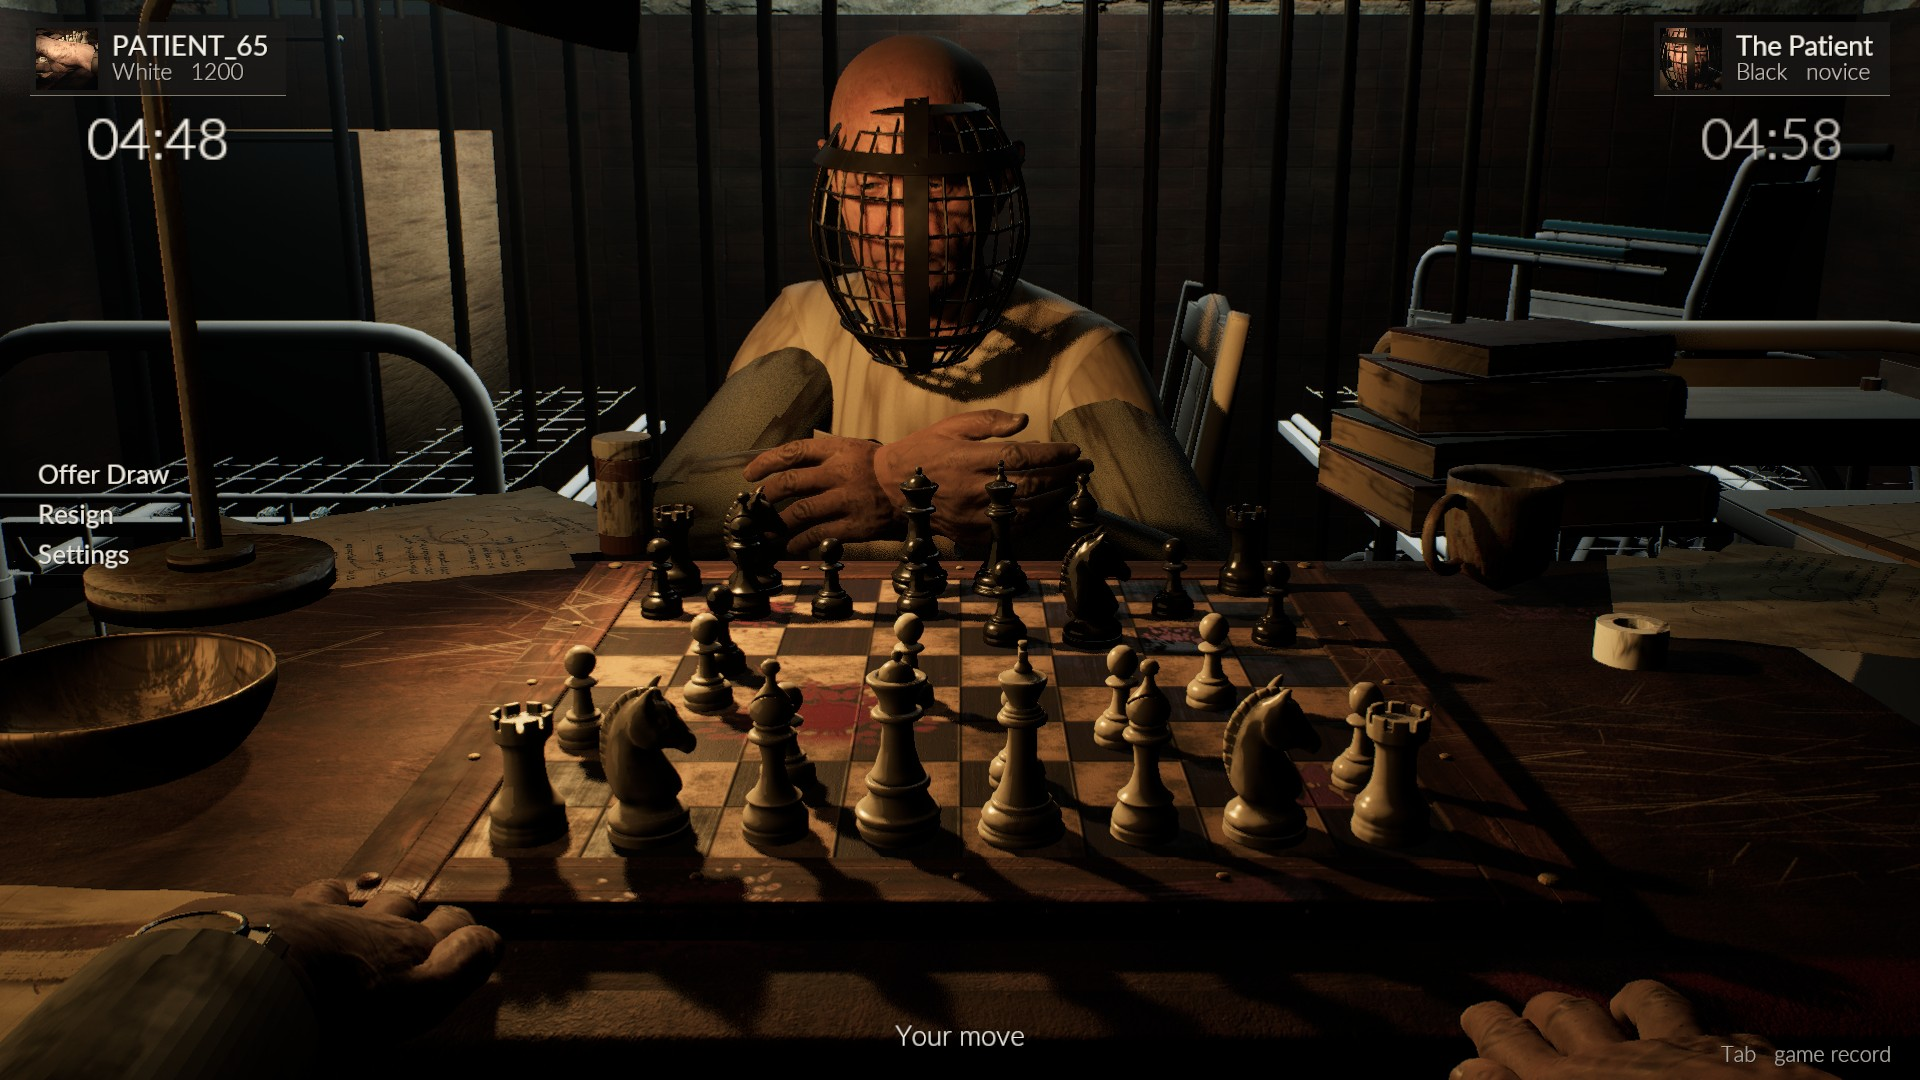
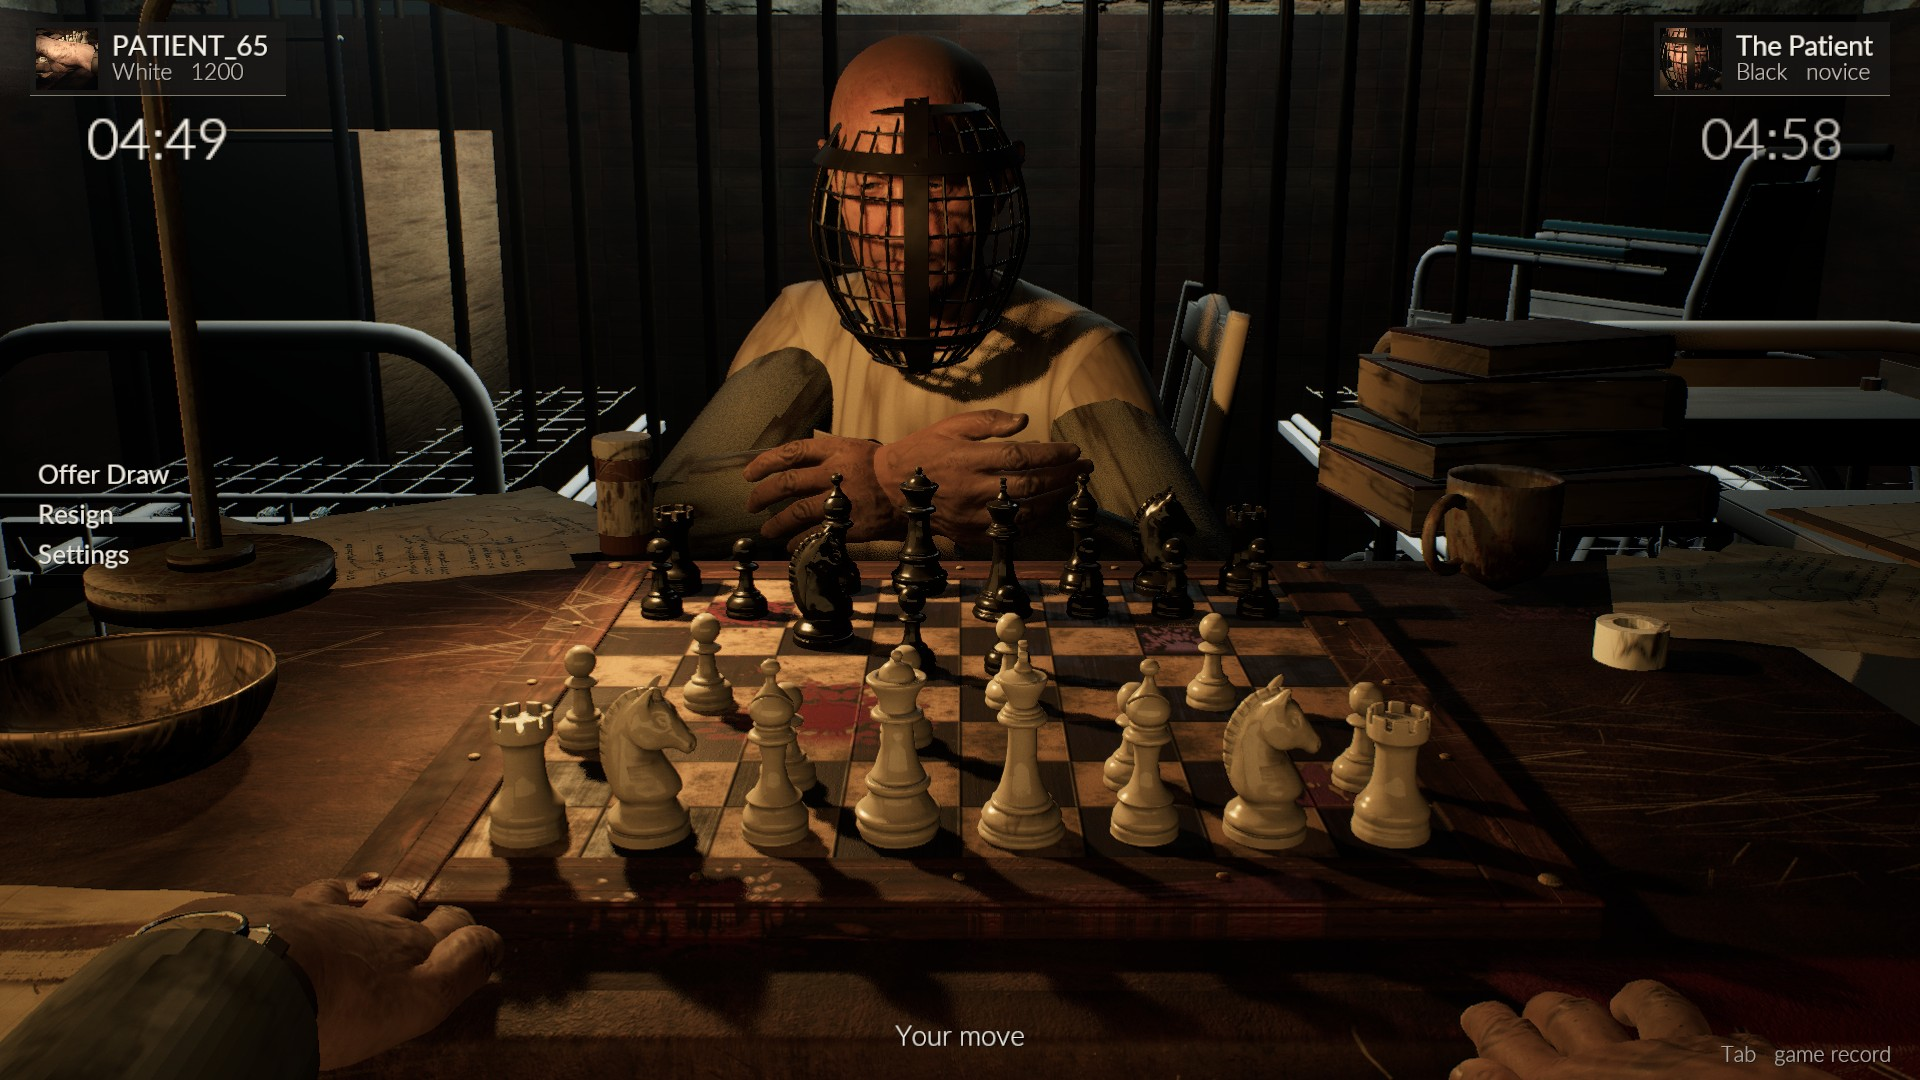
Lighting C2.3: shadowless Table_Bounce from the player's side keeps the white pieces light (white median 11.6 in C2.2 -> 74.8, C1 72.7; white/black ratio 17.8), EV 8.45, V1 met
Lead review: C2.2's lamp-only key backlit the white pieces (tan, close to the black set). Start-position check with
basecolor masks: ratio C1 30.9, C2.2 5.4, C2.3 17.8 (target >= 2.5). Main view mean 29.1, p95 99.7, r/g 1.473,
g/b 1.661; below luma 8 32.3% (ref 33.8); detail 11.15 (V2 not met). GPU 8.42 ms auto, 17.32 ms native 1440p
(C1 11.57 auto). Autotests on this build: cpu 108/108, drag 8/8.

Claude-Session: https://claude.ai/code/session_01Bdhv4WcW28Q1vBVWcz5HtR

diff --git a/ue5/TownChessBench/Scripts/build_scene.py b/ue5/TownChessBench/Scripts/build_scene.py
@@ -2079,6 +2079,10 @@ def build():
     # with its key alone every piece was backlit (s2: board mean 57 -> 23, pieces in silhouette): one soft warm bounce
     # from the lamp's side (its light off the papers and table left of the board), low and from the left, at half power.
     tag(rect("Lamp_Bounce", (-12, -62, top + 22), look_at_rot((-12, -62, top + 22), (-8, 0, top)), 100, 2700, 90, 50, 170, vol=0.0))
+    # C2.3: the lamp's light coming back off the lit table, the papers and the player's own body: a low, wide, shadowless
+    # warm bounce from the player's side so the camera-facing sides of the white pieces stay light (C2.2 left them tan,
+    # close to the black set; lead review). Kept low and dim so the hands stay under the board.
+    tag(rect("Table_Bounce", (-62, 0, top + 8), look_at_rot((-62, 0, top + 8), (0, 0, top + 4)), float(os.environ.get("TC_TBOUNCE", 90)), 2900, 110, 25, 150, vol=0.0))
     # (the table bounce light over-lit the board: 11.7% clipped pixels; removed, Lumen GI does the bounce)
     # corridor light behind the bars: a cold glow that separates the opponent from the back wall
     rect("Corridor_Glow", (cx + L / 2 - 30, 40, 230), (0, -70, 0), 2200, 7200, 80, 30, 500, vol=2.0)
@@ -2153,8 +2157,8 @@ def build():
     for k, v in {
         "auto_exposure_method": unreal.AutoExposureMethod.AEM_HISTOGRAM,
         # EV 8.3 (was 7.8): the frame measured mean 35 / 95th pct 139 against the reference's 27 / 97 (pass 47)
-        "auto_exposure_min_brightness": float(os.environ.get("TC_EV", 8.3)),
-        "auto_exposure_max_brightness": float(os.environ.get("TC_EV", 8.3)),
+        "auto_exposure_min_brightness": float(os.environ.get("TC_EV", 8.45)),
+        "auto_exposure_max_brightness": float(os.environ.get("TC_EV", 8.45)),
         # C2: vignette 0.65 -> 0.4 and grain 0.5 -> 0.2 (the grain fed the V2 detail metric without being detail)
         "bloom_intensity": 0.3, "vignette_intensity": 0.4, "film_grain_intensity": float(os.environ.get("TC_GRAIN", 0.2)),
         "film_toe": 0.5,  # C2: 0.55 -> 0.5 lifts the deepest shadows a little (0.45 read milky)

diff --git a/docs/VISUAL_REBUILD_ROADMAP.md b/docs/VISUAL_REBUILD_ROADMAP.md
@@ -46,7 +46,8 @@ The critique that drives the passes is in [HOSTILE_VISUAL_REVIEW.md](HOSTILE_VIS
 | 62 | Table wear: a generated knife-scar decal (`stains.py` Scratch: ~260 fine scratches mostly along the grain, six grime-filled gouges with pale fresh-wood rims), eight of them round the board; the right-hand table spill 55 -> 80 lm. Checked the Annotator after pass 61's sleeve fix: dark coat sleeves on his upper arms, tan oversleeves at the cuffs, nothing beside his head any more | `62-table-before-after.jpg` (top pass 61, bottom 62): the wide flat brown table areas left and right of the board now read as scarred, handled wood. Main view (`62-main.jpg`): mean 25.7 (26.6), p95 103.5 (97), r/g 1.45 (1.44), g/b 1.65 (1.62), fine detail 11.02 -> 11.71 (12.9): V2 met |
 | 63 | Both hands like the reference: the player leans in further (spine_03 12 -> 16 degrees; the arm IK was at full reach, so the lean is what moved the hands), elbows may lift off the table (out of view), fingers relaxed 0.6 -> 0.8 so they lie over the board frame instead of curling under. Nails are now placed from the geometry (each distal phalanx's dorsal patch, a curved cuticle, a paler free edge, soft dirt in the folds) instead of a brightness detector that found only dots and drew dark rings round them. The hands' fill light 220 -> 200 lm (p95 had risen to 106 with both hands in frame) | `63-main.jpg`: both hands rest on the board's near corners with wrists and forearms in frame, veins readable on the backs, like the reference's main panel. `63-hands-closeup.jpg`: the default (bare) skin from above: calmer veins and tendons, relaxed fingers. Nails are still not visible from the seat (the fingertips hang over the frame edge). Main view: mean 25.3 (26.6), p95 102.2 (97), r/g 1.46 (1.44), g/b 1.65 (1.62), fine detail 11.53 (V2 needs 11.5). Autotests cpu 48/48, drag 8/8 |
 | 64 | The Annotator's eye: 12 drilled holes 4.5 mm apart instead of the 8 x 8 checker (read as a texture-test pattern: judge run 4); blood on the board's near frame and the table edge in front of it; two more knife-scar patches in the near corners. Checked the hand options in the main view | `64-look-dirty-sleeves-watch.jpg` (look `dirty+sleeves+watch`): the watch with its dial on the left wrist and the dark sleeve at the frame's lower left, grimy hands: this is the reference's main panel (watch on the left wrist, sleeves, dirty hands). `64-annotator-eye-before-after.jpg`: the eye reads as drilled holes. Default main view (two captures): mean 25.3/25.4 (26.6), p95 101.4/101.5 (97), r/g 1.46, g/b 1.65, fine detail 11.54/11.54 |
-| C2 (2026-10-14, rendering architect) | **C2.1** Shadows only on Lamp_Key, Lamp_Opponent and Window_Cold (were 10 lights; Window_Cold keeps its shadow because without it its 7500 K light reached the board through the opponent, r/g 1.33). **C2.2** Hands_Key and Table_Right removed (no source); with the key alone the pieces were backlit (the lamp stands beyond the board's left half: board mean 57 -> 23), so one soft Lamp_Bounce (100 lm, from the lamp's side, low, unshadowed) and the key re-aimed at the board centre (520 lm, cone 56); Lamp_Opponent aimed at the chest, 220 -> 170 lm; fog 0.035/0.002 -> 0.045/0.001; grade: EV 8.3, toe 0.5, contrast 1.0, saturation 0.8, highlight gain 0.78, warmer gain 0.92/1/0.88, neutral shadow gain, vignette 0.4, grain 0.5 -> 0.2, `r.Tonemapper.Sharpen` 1.0 -> 0.5. Rejected on the way: toe 0.45 + fog 0.06 (milky, mean 33.5, g/b 1.42) | `docs/graphics/iterations/C2-before-after.jpg` (left C1, right C2), `C2-main.jpg`, `C2-hands-opponent.jpg`, `C2-lighting.json`. Main view: mean 23.0 -> 27.2, p95 98.2 -> 102.0, r/g 1.425, g/b 1.599 (V1 met; Black seat 27.3/102.9/1.432/1.603); pixels below luma 8 49.5% -> 38.6% (target <= 38, ref 33.8); median 8.3 -> 13.7 (ref 15.0); room behind the opponent 9 -> 19, top row 13.7 -> 24.5. Detail 11.28 -> 11.21 with less than half the grain and sharpen: the detail number no longer leans on grain as much, V2 (11.5) is still not met. Pieces are side-lit from the lamp with long shadows towards the player. Open: the right hand (mean 40) is nearly as bright as the board (42.5); the lamp shade itself is still out of frame (board/environment: lamp placement); scalp p95 89.8 is below the board's 134.7. GPU 11.57 -> 8.13 ms at auto 1440p (editor CSV); native 1440p 16.6 ms |
+| C2 (2026-10-14, rendering architect) | **C2.1** Shadows only on Lamp_Key, Lamp_Opponent and Window_Cold (were 10 lights; Window_Cold keeps its shadow because without it its 7500 K light reached the board through the opponent, r/g 1.33). **C2.2** Hands_Key and Table_Right removed (no source); with the key alone the pieces were backlit (the lamp stands beyond the board's left half: board mean 57 -> 23), so one soft Lamp_Bounce (100 lm, from the lamp's side, low, unshadowed) and the key re-aimed at the board centre (520 lm, cone 56); Lamp_Opponent aimed at the chest, 220 -> 170 lm; fog 0.035/0.002 -> 0.045/0.001; grade: EV 8.3, toe 0.5, contrast 1.0, saturation 0.8, highlight gain 0.78, warmer gain 0.92/1/0.88, neutral shadow gain, vignette 0.4, grain 0.5 -> 0.2, `r.Tonemapper.Sharpen` 1.0 -> 0.5. Rejected on the way: toe 0.45 + fog 0.06 (milky, mean 33.5, g/b 1.42) | `C2-lighting.json` (`c2_2_main`; the C2.2 images were replaced by C2.3 ones, its start-position frame is the middle panel of `C2-before-after.jpg`). Main view: mean 23.0 -> 27.2, p95 98.2 -> 102.0, r/g 1.425, g/b 1.599 (V1 met; Black seat 27.3/102.9/1.432/1.603); pixels below luma 8 49.5% -> 38.6% (target <= 38, ref 33.8); median 8.3 -> 13.7 (ref 15.0); room behind the opponent 9 -> 19, top row 13.7 -> 24.5. Detail 11.28 -> 11.21 with less than half the grain and sharpen: the detail number no longer leans on grain as much, V2 (11.5) is still not met. Pieces are side-lit from the lamp with long shadows towards the player. Open: the right hand (mean 40) is nearly as bright as the board (42.5); the lamp shade itself is still out of frame (board/environment: lamp placement); scalp p95 89.8 is below the board's 134.7. GPU 11.57 -> 8.13 ms at auto 1440p (editor CSV); native 1440p 16.6 ms |
+| C2.3 (2026-10-14, rendering architect) | Lead review of C2.2: the camera-facing sides of the white pieces were in shadow and read tan, close to the black set (the lamp stands beyond the board, so its key backlights them). Added `Table_Bounce` (90 lm, 2900 K, a low 110x25 cm shadowless rect at the player's side of the table aimed across the board: the lamp's light coming back off the table, papers and the player's body) and EV 8.3 -> 8.45 to keep V1. New check: median luma of the white vs the black pieces' visible pixels in the start position, masks from a `-TCSource=basecolor` capture | `C2-before-after.jpg` (start position: C1, C2.2, C2.3), `C2-piece-masks.jpg`, `C2-main.jpg`, `C2-hands-black.jpg`, `C2-lighting.json`. White piece median C1 72.7, C2.2 11.6, C2.3 74.8; white/black ratio 30.9 / 5.4 / 17.8 (target >= 2.5; the black set is near-black in every state, so the white median is the telling number). Main view: mean 29.1, p95 99.7, r/g 1.473, g/b 1.661 (V1 met; Black seat 27.7/98.2/1.481/1.653); below luma 8 32.3% (ref 33.8); median 15.9 (15.0); detail 11.15 (V2 not met). Board 54.3 > right hand 43.3 > left hand 31.0. GPU 8.42 ms at auto (C1 11.57); autotests cpu 108/108, drag 8/8 |
 
 ## Remaining gaps, ranked (what the next passes do)
 

diff --git a/docs/graphics/RENDERER_AUDIT.md b/docs/graphics/RENDERER_AUDIT.md
@@ -280,13 +280,13 @@ Ranked by impact on what the owner sees, each with an acceptance test that can f
 ## C2 status (2026-10-14, implementation)
 
 Measured on the build PC; evidence in `docs/graphics/iterations/C2-*.jpg` and `C2-lighting.json`, GPU numbers in
-PERFORMANCE_BENCHMARKS.md ("C2"). Commits 7499b8d (C2.1) and d5014f1 (C2.2).
+PERFORMANCE_BENCHMARKS.md ("C2"). Commits 7499b8d (C2.1), d5014f1 (C2.2, rejected by the lead: white pieces dark from the seat) and C2.3 (Table_Bounce, EV 8.45).
 
 | Defect | State | Evidence |
 |---|---|---|
-| D1 screen percentage | open (lead): recommendation Epic 83%, High 67%, Medium 58%; never auto | native 1440p now 16.63 ms (58 fps editor offscreen), 75% 10.66 ms, auto 8.13 ms |
+| D1 screen percentage | open (lead): recommendation Epic 83%, High 67%, Medium 58%; never auto | C2.3: native 1440p 17.32 ms (55.7 fps editor offscreen), 75% 11.14 ms, auto 8.42 ms |
 | D2 shadowed lights | done: 3 shadowed lights (Lamp_Key, Lamp_Opponent, Window_Cold) | GPU 11.57 → 7.75 ms at auto; Lights + ShadowsDenoiser 6.75 → 2.78 ms (target 2.5 missed by 0.28 ms: Window_Cold must keep its shadow, without it r/g fell to 1.33) |
-| D3 lamp as key | partly: Hands_Key and Table_Right removed, key re-aimed at the board centre, one soft Lamp_Bounce from the lamp's side | pieces side-lit from the lamp with long shadows; board 42.5 > right hand 40.0 > left hand 23.0; the shade itself is still out of frame and its emissive dark (board/environment and materials) |
-| D4 grade | done except the 38% bound: below luma 8 49.5% → 38.6%, median 8.3 → 13.7, grain 0.5 → 0.2, sharpen 1.0 → 0.5 | V1 met (27.2 / 102.0 / 1.425 / 1.599); detail 11.21 (V2 not met) |
-| D5 atmosphere | done: fog 0.045, falloff 0.001 | room behind the opponent 9.0 → 19.1, top row 13.7 → 24.5 |
+| D3 lamp as key | partly: Hands_Key and Table_Right removed, key re-aimed at the board centre, a soft Lamp_Bounce from the lamp's side and a low shadowless Table_Bounce from the player's side (the lamp stands beyond the board, so the key alone backlit the white pieces: white median 72.7 → 11.6 in C2.2, 74.8 in C2.3) | C2.3: board 54.3 > right hand 43.3 > left hand 31.0; scalp p95 83.8 < board p95 133.3; white/black piece median ratio 17.8 (≥ 2.5); the shade itself is still out of frame and its emissive dark (board/environment and materials) |
+| D4 grade | done: below luma 8 49.5% → 32.3%, median 8.3 → 15.9, grain 0.5 → 0.2, sharpen 1.0 → 0.5 | V1 met (C2.3: 29.1 / 99.7 / 1.473 / 1.661); detail 11.15 (V2 not met) |
+| D5 atmosphere | done: fog 0.045, falloff 0.001 | room behind the opponent 9.0 → 17.4, top row 13.7 → 22.7 (C2.3) |
 | D6, D8, D9 | not started | |

diff --git a/docs/graphics/PERFORMANCE_BENCHMARKS.md b/docs/graphics/PERFORMANCE_BENCHMARKS.md
@@ -128,13 +128,21 @@ one unshadowed Lamp_Bounce from the lamp's side, fog 0.035 → 0.045, new grade.
 | 75% (1920x1080) | 10.66 | 2.10 + 2.34 | 0.30 | 1.33 | 89.4 | 79.9 |
 | 100% (native 2560x1440) | 16.63 | 3.82 + 4.10 | 0.56 | 1.78 | 58.0 | 53.5 |
 
-Native 1440p went from 25.9 ms (Phase A, 10 shadowed lights) to 16.6 ms. The fog and bounce cost about 0.4 ms over
+C2.3 (Table_Bounce added, EV 8.45; the state that ships), same probe:
+
+| C2.3 state | GPU ms | Lights + ShadowsDenoiser | VolumetricFog | TSR | Avg fps (editor) | 1% low |
+|---|---|---|---|---|---|---|
+| auto (60.6%) | 8.42 | 1.54 + 1.51 | 0.22 | 1.19 | 112.0 | 96.1 |
+| 75% | 11.14 | 2.23 + 2.43 | 0.31 | 1.39 | 85.7 | 76.7 |
+| 100% | 17.32 | 4.01 + 4.26 | 0.58 | 1.83 | 55.7 | 51.1 |
+
+Against C1 (11.57 ms) C2.3 saves 3.15 ms at auto (-27%). Native 1440p went from 25.9 ms (Phase A, 10 shadowed lights) to 16.6 ms. The fog and bounce cost about 0.4 ms over
 s1b, which is inside run-to-run noise for the total.
 
 **Screen percentage per tier (recommendation to the lead for `ApplyQualityPreset`):**
-- Epic (RTX 4070 Ti SUPER, 1440p): **83%** (2125x1195). Interpolating the measured 75% (10.7 ms) and 100% (16.6 ms),
-  83% costs about 12.5 ms (estimate): about 80 fps offscreen, leaving margin for present cost and the 1% low (≥ 45).
-  100% measured 58 fps offscreen, under the 60 fps average target once present cost is added.
+- Epic (RTX 4070 Ti SUPER, 1440p): **83%** (2125x1195). Interpolating the measured C2.3 75% (11.1 ms) and 100% (17.3 ms),
+  83% costs about 13 ms (estimate): about 75 fps offscreen, leaving margin for present cost and the 1% low (≥ 45).
+  100% measured 55.7 fps offscreen (C2.3), under the 60 fps average target once present cost is added.
 - High: 67% (unchanged from the RX 6650 XT measurement in PERFORMANCE.md).
 - Medium: 58%.
 - Never leave it at auto: at 1440p on this display auto gives 60.6%, the soft frame the owner complained about.
